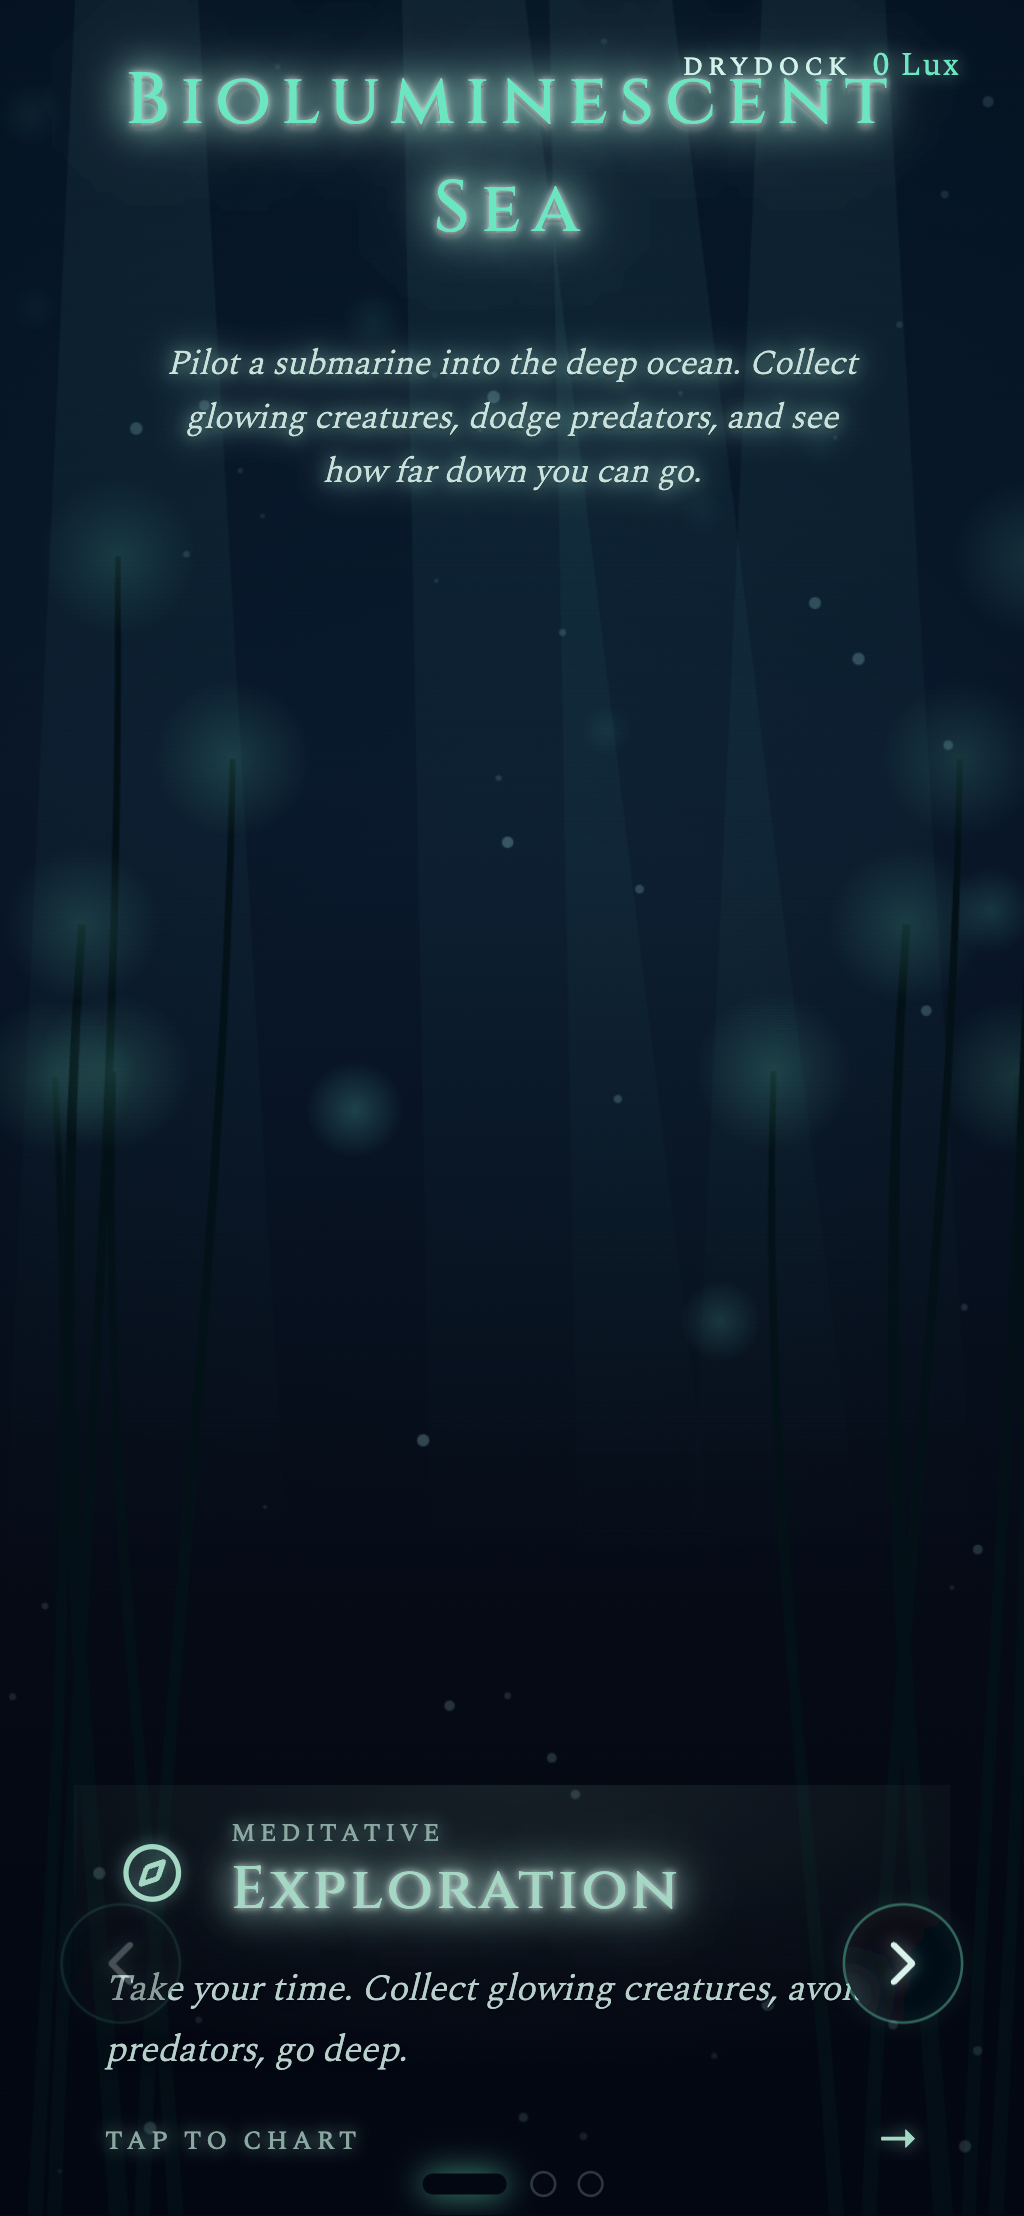
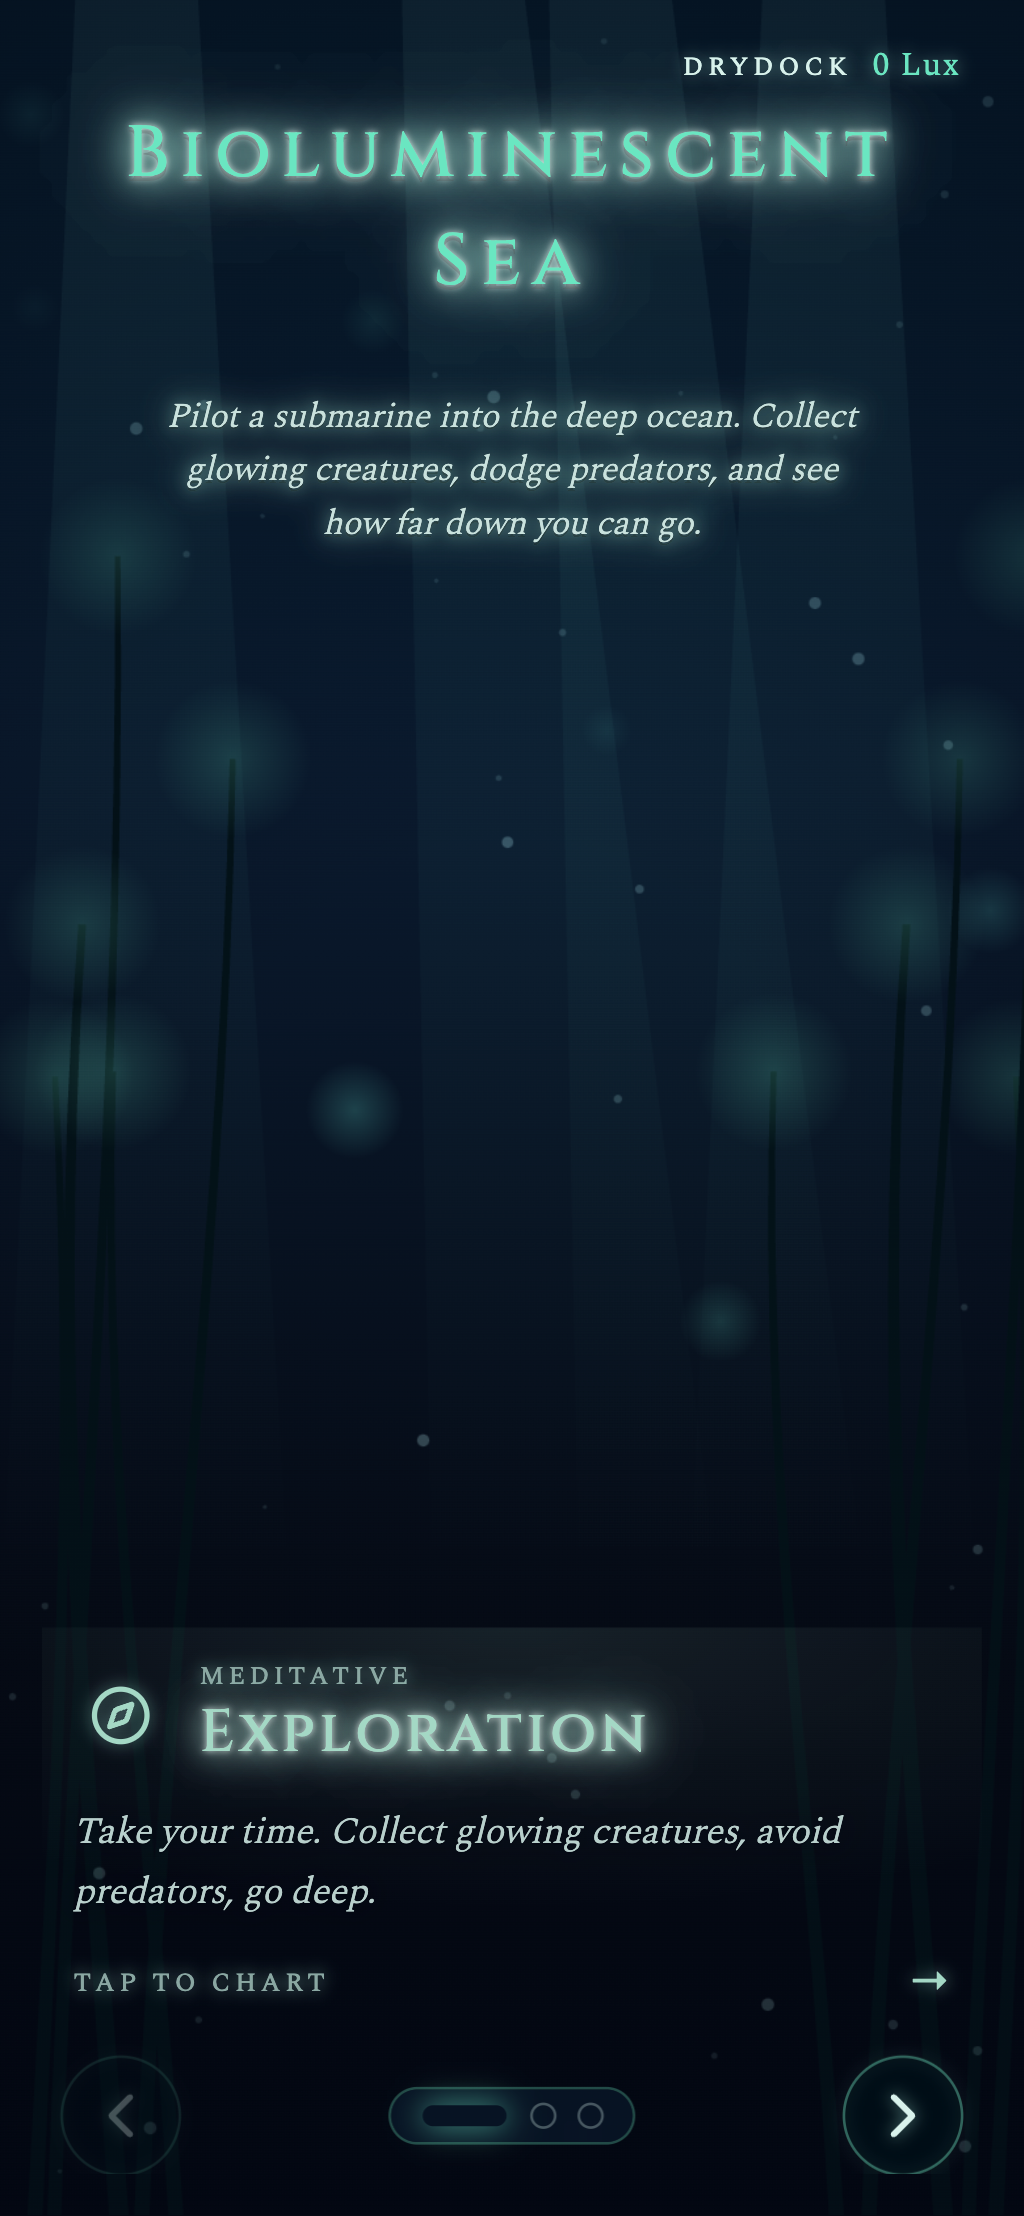
fix(bs): mobile carousel clip + drydock-chip collision (#275)
## Summary

Iteration-2 finding (CRITICAL + HIGH severity from #268).

- `Carousel.tsx`: Added `layout: "floating" | "inline"` prop. Inline
mode renders chevrons + dots in a flex row outside the card body so they
don't overlap content. Pagination dots gained a backdrop pill
(`rounded-full bg-abyss/60 px-3 py-1.5 ring-1 ring-glow/30
backdrop-blur-sm`).
- `LandingScreen.tsx`: `ModeCarousel` branches on `useDeviceClass()` —
phones get inline strip with no card padding; tablet+ keep floating
layout. Title block on `<sm` gains `pt-6` so the chip doesn't collide
with the wrapped title.
- Bumped dot opacity (`bg-fg/55` → `bg-fg/70`) and ring (`ring-fg/20` →
`ring-fg/30`) for higher contrast against the parallax canvas.

## Test plan
- [ ] CI green

diff --git a/src/ui/primitives/Carousel.tsx b/src/ui/primitives/Carousel.tsx
@@ -132,22 +132,36 @@ type CarouselNavigationProps = {
   className?: string;
   classNameButton?: string;
   alwaysShow?: boolean;
+  /**
+   * `floating` (default) — arrows are absolutely positioned over the
+   * carousel viewport. Used on tablet+ where the cards have room to
+   * breathe and the chevrons can sit in the gutters.
+   *
+   * `inline` — arrows are rendered as a static flex row, sized to
+   * sit alongside other controls (e.g. pagination dots) in a
+   * separate strip below the carousel. Used on `<sm` where floating
+   * arrows would overlap mode-card body copy.
+   *
+   * (Iter-2 finding #1 — mobile carousel was clipping mode-card
+   * tagline because floating chevrons overlapped the card.)
+   */
+  layout?: "floating" | "inline";
 };
 
 export function CarouselNavigation({
   className,
   classNameButton,
   alwaysShow,
+  layout = "floating",
 }: CarouselNavigationProps) {
   const { index, setIndex, itemsCount } = useCarousel();
+  const isInline = layout === "inline";
   return (
     <div
       className={cn(
-        // Arrows live inside the carousel's viewport on small
-        // breakpoints (so they aren't clipped by `overflow-hidden` on
-        // the page) and bleed slightly outside on tablet+ for a
-        // sweeter visual rhythm.
-        "pointer-events-none absolute inset-x-0 top-1/2 flex -translate-y-1/2 justify-between px-2 sm:left-[-12.5%] sm:inset-x-auto sm:w-[125%]",
+        isInline
+          ? "flex items-center justify-between gap-3"
+          : "pointer-events-none absolute inset-x-0 top-1/2 flex -translate-y-1/2 justify-between px-2 sm:left-[-12.5%] sm:inset-x-auto sm:w-[125%]",
         className,
       )}
     >
@@ -156,7 +170,8 @@ export function CarouselNavigation({
         aria-label="Previous mode"
         data-testid="carousel-prev"
         className={cn(
-          "pointer-events-auto h-fit w-fit rounded-full bg-abyss/60 p-2 text-fg ring-1 ring-glow/40 backdrop-blur-sm transition-all hover:text-glow hover:ring-glow",
+          "h-fit w-fit rounded-full bg-abyss/60 p-2 text-fg ring-1 ring-glow/40 backdrop-blur-sm transition-all hover:text-glow hover:ring-glow",
+          isInline ? "" : "pointer-events-auto",
           alwaysShow ? "opacity-100" : "opacity-0 group-hover/hover:opacity-100",
           alwaysShow ? "disabled:opacity-30" : "group-hover/hover:disabled:opacity-30",
           classNameButton,
@@ -172,7 +187,8 @@ export function CarouselNavigation({
         aria-label="Next mode"
         data-testid="carousel-next"
         className={cn(
-          "pointer-events-auto h-fit w-fit rounded-full bg-abyss/60 p-2 text-fg ring-1 ring-glow/40 backdrop-blur-sm transition-all hover:text-glow hover:ring-glow",
+          "h-fit w-fit rounded-full bg-abyss/60 p-2 text-fg ring-1 ring-glow/40 backdrop-blur-sm transition-all hover:text-glow hover:ring-glow",
+          isInline ? "" : "pointer-events-auto",
           alwaysShow ? "opacity-100" : "opacity-0 group-hover/hover:opacity-100",
           alwaysShow ? "disabled:opacity-30" : "group-hover/hover:disabled:opacity-30",
           classNameButton,
@@ -191,18 +207,30 @@ type CarouselIndicatorProps = {
   className?: string;
   /** Per-mode metadata so dots can carry the mode's accent colour. */
   modeIds?: readonly string[];
+  /**
+   * `floating` (default) — dot row is absolutely positioned just
+   * below the carousel (the original behaviour). `inline` — dots
+   * render in normal flow so they can share a row with the inline
+   * `<CarouselNavigation>` arrows. (Iter-2 finding #1.)
+   */
+  layout?: "floating" | "inline";
 };
 
-export function CarouselIndicator({ className, modeIds }: CarouselIndicatorProps) {
+export function CarouselIndicator({ className, modeIds, layout = "floating" }: CarouselIndicatorProps) {
   const { index, itemsCount, setIndex } = useCarousel();
   return (
     <div
       className={cn(
-        "absolute -bottom-2 z-10 flex w-full items-center justify-center",
+        layout === "floating"
+          ? "absolute -bottom-2 z-10 flex w-full items-center justify-center"
+          : "flex items-center justify-center",
         className,
       )}
     >
-      <div className="flex items-center space-x-2.5">
+      {/* Backdrop pill behind the dot row matches the chevron pill
+          style — without it the dots disappear against the
+          LandingHero canvas's parallax. (Iter-2 finding #4.) */}
+      <div className="flex items-center space-x-2.5 rounded-full bg-abyss/60 px-3 py-1.5 ring-1 ring-glow/30 backdrop-blur-sm">
         {Array.from({ length: itemsCount }, (_, i) => {
           const isActive = index === i;
           const testId = modeIds?.[i] ? `mode-dot-${modeIds[i]}` : undefined;
@@ -218,7 +246,7 @@ export function CarouselIndicator({ className, modeIds }: CarouselIndicatorProps
               className={
                 isActive
                   ? "h-2 w-8 rounded-full bg-glow shadow-[0_0_12px_rgba(107,230,193,0.7)] transition-all"
-                  : "h-2 w-2 rounded-full bg-fg/55 ring-1 ring-fg/20 transition-all hover:bg-fg hover:ring-fg/40"
+                  : "h-2 w-2 rounded-full bg-fg/70 ring-1 ring-fg/30 transition-all hover:bg-fg hover:ring-fg/50"
               }
             />
           );

diff --git a/src/ui/screens/LandingScreen.tsx b/src/ui/screens/LandingScreen.tsx
@@ -16,6 +16,7 @@ import {
   EmbossFilters,
 } from "@/ui/primitives";
 import { LandingHero } from "@/ui/shell/LandingHero";
+import { useDeviceClass } from "@/hooks/useDeviceClass";
 
 interface LandingScreenProps {
   /** Lux balance to surface in the Drydock label on the landing. */
@@ -95,8 +96,14 @@ export function LandingScreen({ currency, onPickMode, onOpenDrydock }: LandingSc
 
       {/* Title + tagline — engraved into the water via SVG emboss filter.
        * Sizing scales on min(vw, vh) so phone-landscape (390px tall)
-       * doesn't push the carousel off-screen. */}
-      <div className="relative flex flex-col items-center justify-center px-6 pt-1 text-center sm:pt-3 md:pt-10 [@media(max-height:500px)]:pt-0.5">
+       * doesn't push the carousel off-screen.
+       *
+       * `pt-6` on `<sm` clears the Drydock chip in the header so the
+       * wrapped title's first line doesn't render in the chip's
+       * horizontal band. Without this the "BIOLUMINESCENT" wrap on
+       * mobile-portrait visually collides with "DRYDOCK · Lux".
+       * (Iter-2 finding #2.) */}
+      <div className="relative flex flex-col items-center justify-center px-6 pt-6 text-center sm:pt-3 md:pt-10 [@media(max-height:500px)]:pt-0.5">
         <motion.h1
           initial={{ y: -20, opacity: 0 }}
           animate={{ y: 0, opacity: 1 }}
@@ -272,6 +279,16 @@ interface ModeCarouselProps {
  * card with breathing room either side.
  */
 function ModeCarousel({ onPickMode }: ModeCarouselProps) {
+  const { klass } = useDeviceClass();
+  // Phones get the inline controls-strip layout (chevrons outside
+  // the card, dot row centred between them with a backdrop pill).
+  // Tablet+ keeps the original cinematic layout: floating chevrons
+  // in the gutters + dot row absolutely positioned beneath the
+  // viewport. Branching at the JS layer (not Tailwind responsive
+  // classes) keeps a single CarouselNavigation in the DOM so
+  // `getByTestId('carousel-next')` selects the visible button.
+  // (Iter-2 finding #1.)
+  const isPhone = klass === "phone-portrait" || klass === "phone-landscape";
   return (
     <div
       className="relative mx-auto w-full max-w-md sm:max-w-lg"
@@ -280,7 +297,10 @@ function ModeCarousel({ onPickMode }: ModeCarouselProps) {
       <Carousel>
         <CarouselContent>
           {SESSION_MODES.map((mode, index) => (
-            <CarouselItem key={mode} className="px-3">
+            // No horizontal padding on phone so the card uses the
+            // full carousel viewport width — the controls strip
+            // below carries pagination instead.
+            <CarouselItem key={mode} className={isPhone ? "" : "px-3"}>
               <ModeCard
                 meta={getModeMetadata(mode)}
                 icon={MODE_ICONS[mode]}
@@ -290,8 +310,21 @@ function ModeCarousel({ onPickMode }: ModeCarouselProps) {
             </CarouselItem>
           ))}
         </CarouselContent>
-        <CarouselNavigation alwaysShow />
-        <CarouselIndicator modeIds={SESSION_MODES} />
+        {isPhone ? (
+          <div className="relative mt-4 flex items-center justify-between gap-3 px-2">
+            <CarouselNavigation alwaysShow layout="inline" className="flex-1" />
+            <div className="pointer-events-none absolute inset-0 flex items-center justify-center">
+              <div className="pointer-events-auto">
+                <CarouselIndicator modeIds={SESSION_MODES} layout="inline" />
+              </div>
+            </div>
+          </div>
+        ) : (
+          <>
+            <CarouselNavigation alwaysShow />
+            <CarouselIndicator modeIds={SESSION_MODES} />
+          </>
+        )}
       </Carousel>
     </div>
   );
